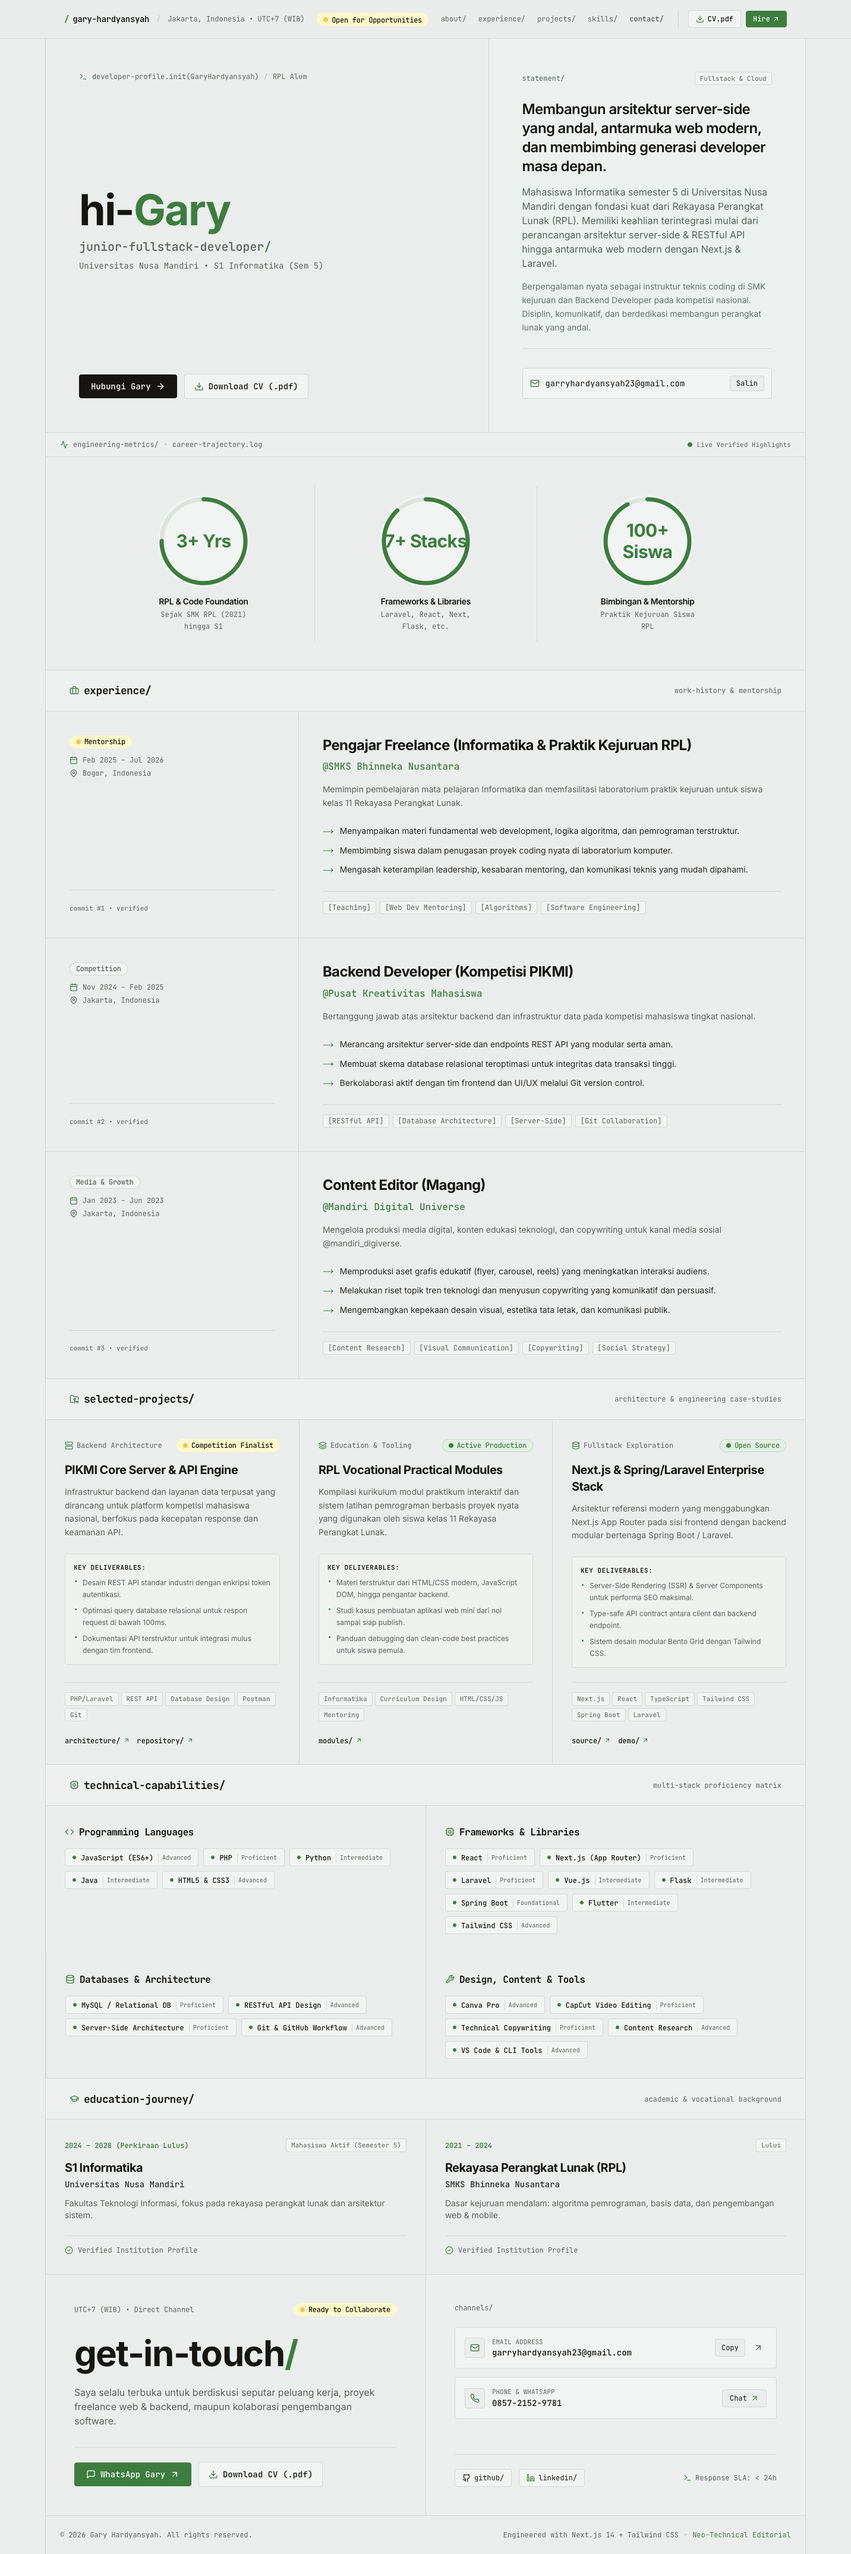
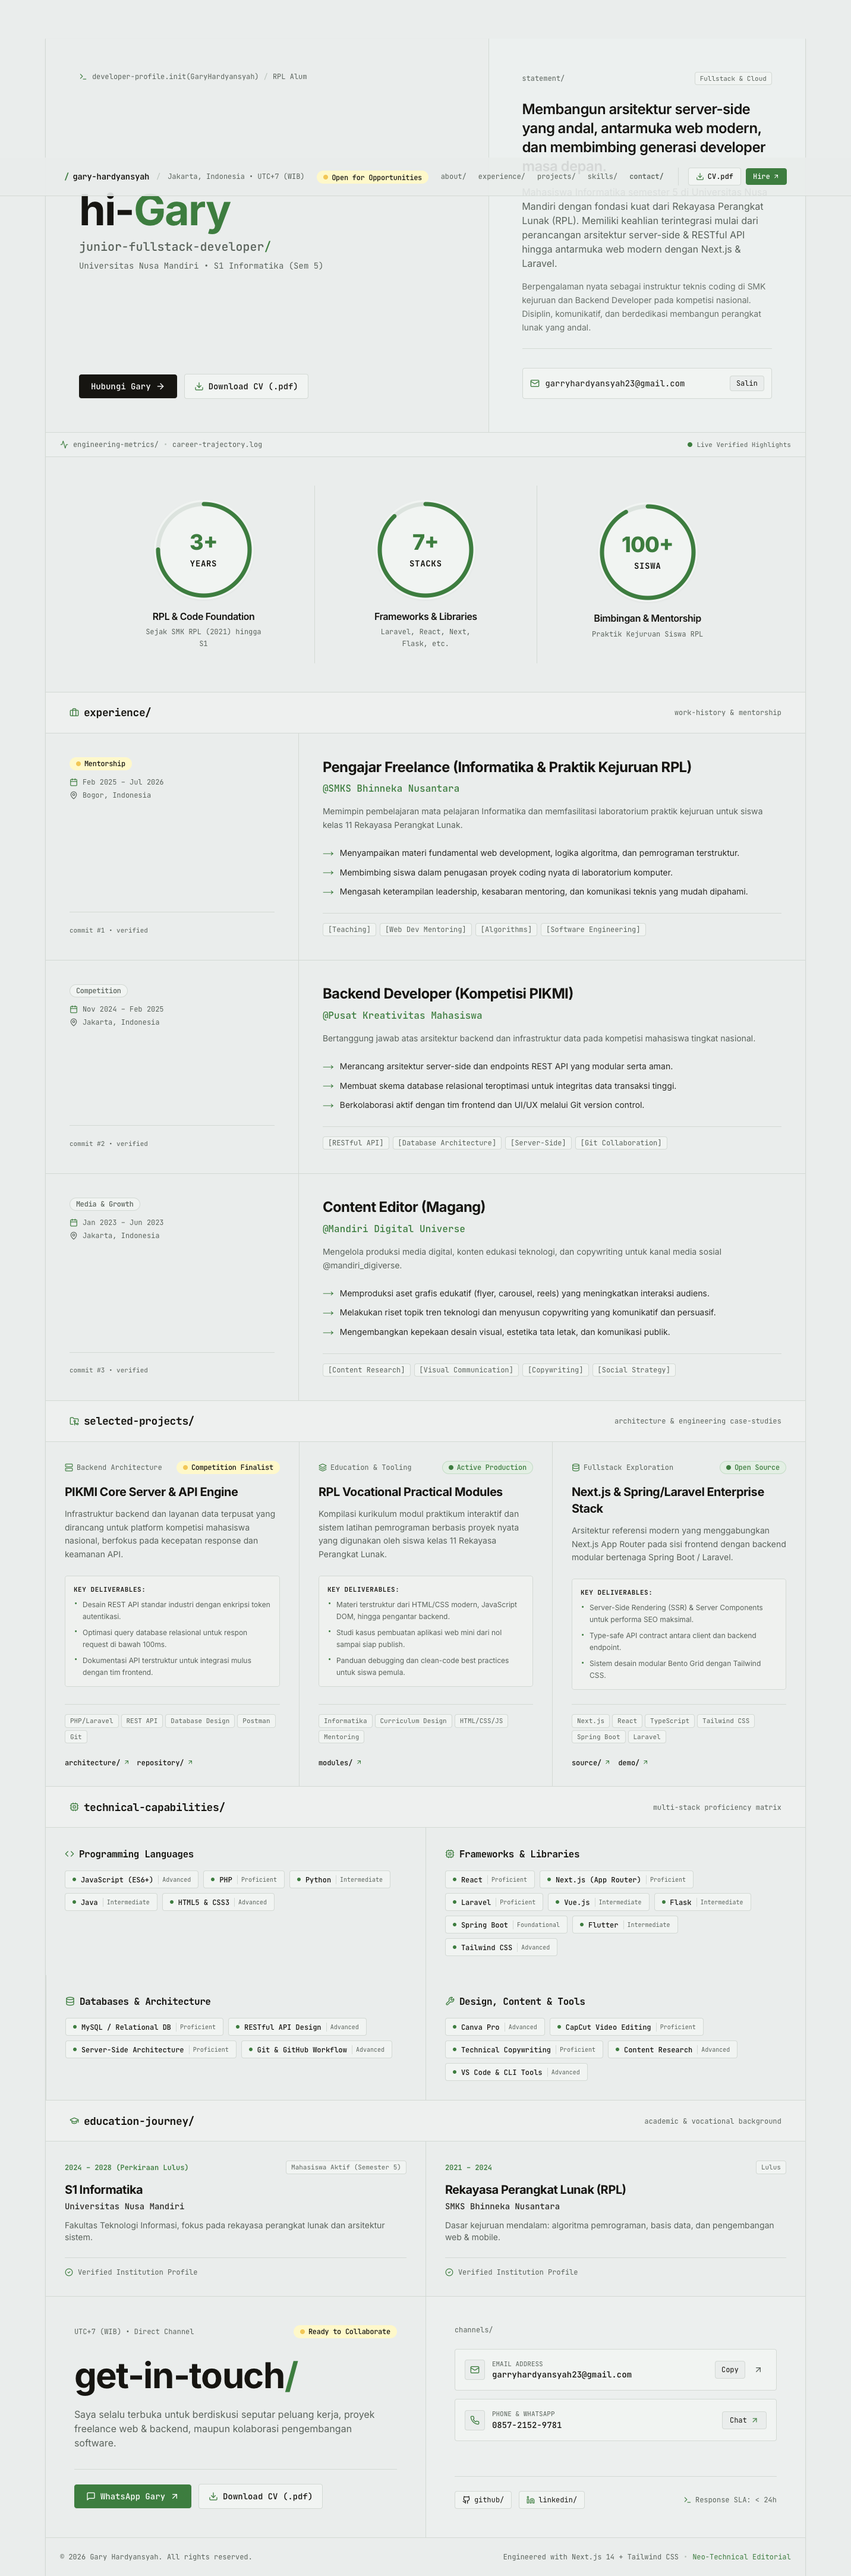
style: refine metric gauge typography and visual symmetry

diff --git a/src/components/ui/GaugeCircle.tsx b/src/components/ui/GaugeCircle.tsx
@@ -4,7 +4,8 @@ import React from "react";
 import { motion } from "framer-motion";
 
 interface GaugeCircleProps {
-  value: string;
+  number: string;
+  unit: string;
   label: string;
   sublabel?: string;
   progressPercent: number; // 0 to 100
@@ -13,22 +14,23 @@ interface GaugeCircleProps {
 }
 
 export function GaugeCircle({
-  value,
+  number,
+  unit,
   label,
   sublabel,
   progressPercent = 75,
-  size = 150,
-  strokeWidth = 6.5,
+  size = 168,
+  strokeWidth = 7,
 }: GaugeCircleProps) {
   const radius = (size - strokeWidth * 2) / 2;
   const circumference = 2 * Math.PI * radius;
   const strokeDashoffset = circumference - (progressPercent / 100) * circumference;
 
   return (
-    <div className="flex flex-col items-center text-center p-4">
+    <div className="flex flex-col items-center text-center p-4 w-full max-w-[260px] mx-auto">
       {/* Circle Container */}
       <div
-        className="relative flex items-center justify-center rounded-full bg-surface transition-transform duration-300 hover:scale-105"
+        className="relative flex items-center justify-center rounded-full bg-surface transition-transform duration-300 hover:scale-105 shadow-sm"
         style={{ width: size, height: size }}
       >
         <svg
@@ -62,21 +64,24 @@ export function GaugeCircle({
           />
         </svg>
 
-        {/* Centered Value */}
-        <div className="absolute inset-0 flex flex-col items-center justify-center">
-          <span className="text-2xl md:text-3xl font-bold font-sans tracking-tight text-accent-green">
-            {value}
+        {/* Centered Structured Value (Hero Number + Clean Unit) */}
+        <div className="absolute inset-0 flex flex-col items-center justify-center select-none pointer-events-none">
+          <span className="text-3xl sm:text-4xl font-extrabold font-sans tracking-tight text-accent-green leading-none">
+            {number}
+          </span>
+          <span className="text-xs sm:text-sm font-mono font-bold tracking-wider text-text-primary uppercase mt-1.5">
+            {unit}
           </span>
         </div>
       </div>
 
-      {/* Text Labels */}
-      <div className="mt-3.5 max-w-[170px]">
-        <h4 className="text-sm font-semibold text-text-primary tracking-tight">
+      {/* Text Labels below */}
+      <div className="mt-4 min-h-[60px] flex flex-col justify-start">
+        <h4 className="text-sm sm:text-base font-semibold text-text-primary tracking-tight">
           {label}
         </h4>
         {sublabel && (
-          <p className="text-xs text-text-muted font-mono mt-0.5 leading-relaxed">
+          <p className="text-xs text-text-muted font-mono mt-1 leading-relaxed max-w-[200px] mx-auto">
             {sublabel}
           </p>
         )}

diff --git a/src/data/resume-data.ts b/src/data/resume-data.ts
@@ -1,5 +1,6 @@
 export interface MetricItem {
-  value: string;
+  number: string;
+  unit: string;
   label: string;
   sublabel: string;
   progressPercent: number; // For SVG gauge arc
@@ -67,19 +68,22 @@ export const RESUME_DATA = {
   // 3 Circular Metrics inspired by the GitHub Universe countdown gauges
   metrics: [
     {
-      value: "3+ Yrs",
+      number: "3+",
+      unit: "Years",
       label: "RPL & Code Foundation",
       sublabel: "Sejak SMK RPL (2021) hingga S1",
       progressPercent: 75,
     },
     {
-      value: "7+ Stacks",
+      number: "7+",
+      unit: "Stacks",
       label: "Frameworks & Libraries",
       sublabel: "Laravel, React, Next, Flask, etc.",
       progressPercent: 88,
     },
     {
-      value: "100+ Siswa",
+      number: "100+",
+      unit: "Siswa",
       label: "Bimbingan & Mentorship",
       sublabel: "Praktik Kejuruan Siswa RPL",
       progressPercent: 92,

diff --git a/src/components/sections/MetricGauges.tsx b/src/components/sections/MetricGauges.tsx
@@ -25,13 +25,14 @@ export function MetricGauges() {
       {/* 3 Circular Gauges Container */}
       <div className="grid grid-cols-1 md:grid-cols-3 divide-y md:divide-y-0 md:divide-x divide-grid-border py-8 sm:py-12 px-4 max-w-6xl mx-auto">
         {RESUME_DATA.metrics.map((metric, idx) => (
-          <div key={idx} className="flex justify-center items-center py-4 md:py-0">
+          <div key={idx} className="flex justify-center items-center py-6 md:py-2">
             <GaugeCircle
-              value={metric.value}
+              number={metric.number}
+              unit={metric.unit}
               label={metric.label}
               sublabel={metric.sublabel}
               progressPercent={metric.progressPercent}
-              size={155}
+              size={168}
               strokeWidth={7}
             />
           </div>
